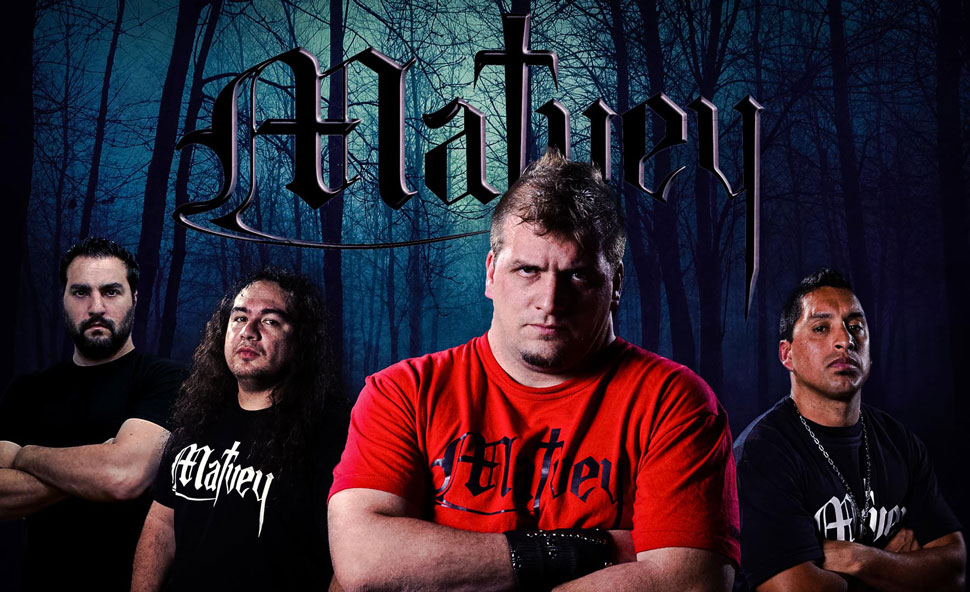
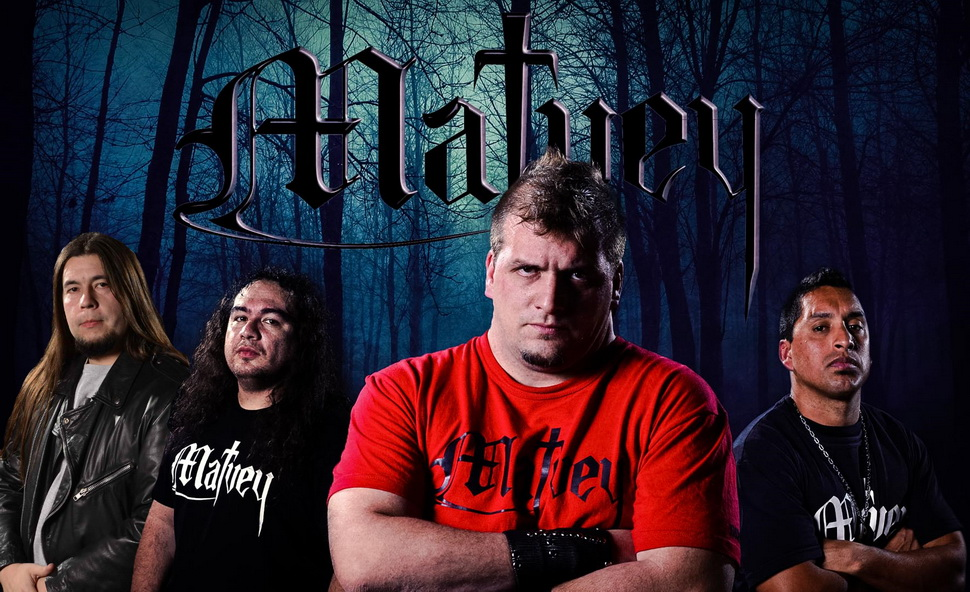
Added news and photos. Modified band member

diff --git a/src/app/core/data/band.data.ts b/src/app/core/data/band.data.ts
@@ -60,14 +60,18 @@ Mariano participó en varios proyectos como "Nightfall" y "Eclipse" junto con Pa
 
 En el 2007, se junta con Pablo Podestá y Diego De Santiago para formar Matvey.
 
-Hoy, forma parte de Matvey junto con Diego De Santiago, Ariel Hausvirth y Pablo Podestá.`, imgName: 'mariano-gauna.png'
+Hoy, forma parte de Matvey junto con Diego De Santiago, Marcos Sartori y Pablo Podestá.`, imgName: 'mariano-gauna.png'
         },
         {
-            role: 'Bajo', name: 'Ariel Hausvirth', bio: `Ariel Hausvirth nació el 22 de septiembre de 1981 en la ciudad de Buenos Aires, Capital Federal, Argentina.
-            
-Sus influencias vienen de todos los estilos de música, no sólo limitandosé al rock y metal. Dentro del metal, sus bandas preferidas son Iron Maiden y Judas Priest.
+            role: 'Bajo', name: 'Marcos Sartori', bio: `Marcos Sebastián Sartori nació el 16 de Diciembre 1982 en la ciudad de Venado Tuerto, provincia de Santa Fe, Argentina. 
 
-Ariel fue bajista en "Speranthas" antes de sumarse a Matvey en el año 2016.`, imgName: 'ariel-hausvirth.png'
+Su interés por la música y tocar el bajo comenzó a los 14 años de edad. 
+            
+Su estilo favorito es el Heavy Metal, depositando toda su energía en "el metal pesado tradicional de los años 80", bajo la influencia de bandas como Iron Maiden, Judas Priest y Manowar y bajistas como Steve Harris, Marcus Miller, Victor Wooten, Jaco Pastorius, Javier Malosetti y Vadala Javier. 
+            
+Ha participado como bajista en varios proyectos tales como "Egida", "Gebas" y "Pretoriana", además de varios espectáculos acompañando a bandas de renombre dentro de la escena metalera local. 
+            
+Hoy en día forma parte de los proyectos de Matvey, junto con Diego De Santiago, Mariano Gauna, y Pablo Podestá.`, imgName: 'marcos-sartori.png'
         }
     ]
 };

diff --git a/src/app/core/data/news.data.ts b/src/app/core/data/news.data.ts
@@ -3,6 +3,7 @@ import { News } from '../../home/shared/news.model';
 // { title: ``, date: '', text: ``, imgName: '', imgAlt: `` },
 
 export let news: News[] = [
+    { title: `Nuevo EP`, date: '09/12/2018', text: `Durante el mes de Marzo estaremos presentando nuestro nuevo EP (MCD) que incluye 5 canciones nuevas dentro de las cuales se encuentra "Wild Street". La producción de esta canción estuvo a cargo de Thundersteel Magazine, e invitamos a 3 cantantes de la escena metalera de los '80 para cantarla. ¡Pronto anunciaremos quiénes son y de qué trata la canción! ¡Gracias por el apoyo!`, imgName: 'wild-street-announcement.jpg', imgAlt: `Anuncio de nuevo single 'Wild Street'` },
     { title: `Asesinos De Mentes`, date: '27/05/2018', text: `Matvey se presentará en Animal Rock (Mendoza 2754) el día Domingo 8 de Julio a las 21 hs junto a Pacto De Sangre, Shivers, P.E.O.R. y V.I.D.A.
 
 Los recitales se transmitirán en vivo por radio Vorterix y habrá sorteos.`, imgName: 'animal-rock-(08-07-2018).jpg', imgAlt: `Flyer del recital en Animal Rock (08-07-2018)` },

diff --git a/src/app/core/data/shows.data.ts b/src/app/core/data/shows.data.ts
@@ -2,8 +2,4 @@ import { Shows } from '../../home/shared/shows.model';
 
 // { name: '', date: '', time: '', venue: '', address: '', lat: -34.619530, lng: -58.441316 },
 
-export let shows: Shows[] = [
-    { name: 'Asesinos De Mentes', date: 'Domingo 8 de Julio', time: '22:00', venue: 'Animal Rock', address: 'Mendoza 2754, Rosario, Santa Fe', lat: -32.947246, lng: -60.661990 },
-    { name: 'Matvey Junto A Renacer', date: 'Sábado 28 de Julio', time: '22:00', venue: 'Animal Rock', address: 'Mendoza 2754, Rosario, Santa Fe', lat: -32.947246, lng: -60.661990 },
-    { name: 'La Campana Del Infierno - Metal Open Camp', date: 'Sábado 13 y Domingo 14 de Octubre', time: '17:00', venue: 'Parque Sarmiento', address: 'Av Argentinas, Carcarañá, Santa Fe', lat: -32.840635, lng: -61.139516 }
-];
+export let shows: Shows[] = [];

diff --git a/src/app/core/data/photos.data.ts b/src/app/core/data/photos.data.ts
@@ -1,6 +1,7 @@
 import { Photos } from '../../photos/shared/photos.model';
 
 export let photos: Photos[] = [
+    { id: 'gier-music-club-24-05-2018', title: 'Gier Music Club (24-05-2018)', amount: 33, photosNumbers: [] },
     { id: 'floyd-05-05-2018', title: 'Floyd (05-05-2018)', amount: 14, photosNumbers: [] },
     { id: 'grooveland-09-05-2015', title: 'Grooveland Escalada (09-05-2015)', amount: 16, photosNumbers: [] },
     { id: 'pugliese-20-12-2014', title: 'Pugliese (20-12-2014)', amount: 13, photosNumbers: [] },

diff --git a/src/app/contact/contact.component.html b/src/app/contact/contact.component.html
@@ -35,7 +35,7 @@
         <aside class="col-xs-12 col-sm-6">
             <p><b><u>Medios de comunicación:</u></b></p>
             <p><b>Facebook:</b><br>https://www.facebook.com/MatveyHeavyMetal</p>
-            <p><b>Electric Punishment Record Label:</b><br>info@electric-punishment.com</p>
+            <p><b>Thundersteel Magazine:</b><br>thundersteelmagazine@yahoo.com.ar</p>
         </aside>
     </div>
 </section>

diff --git a/src/app/photos/photos.component.less b/src/app/photos/photos.component.less
@@ -1,3 +1,9 @@
+h4 {
+  white-space: nowrap;
+  overflow: hidden;
+  text-overflow: ellipsis;
+}
+
 .thumbnail {
   max-width: 284px;
   margin: 0 auto 20px;
